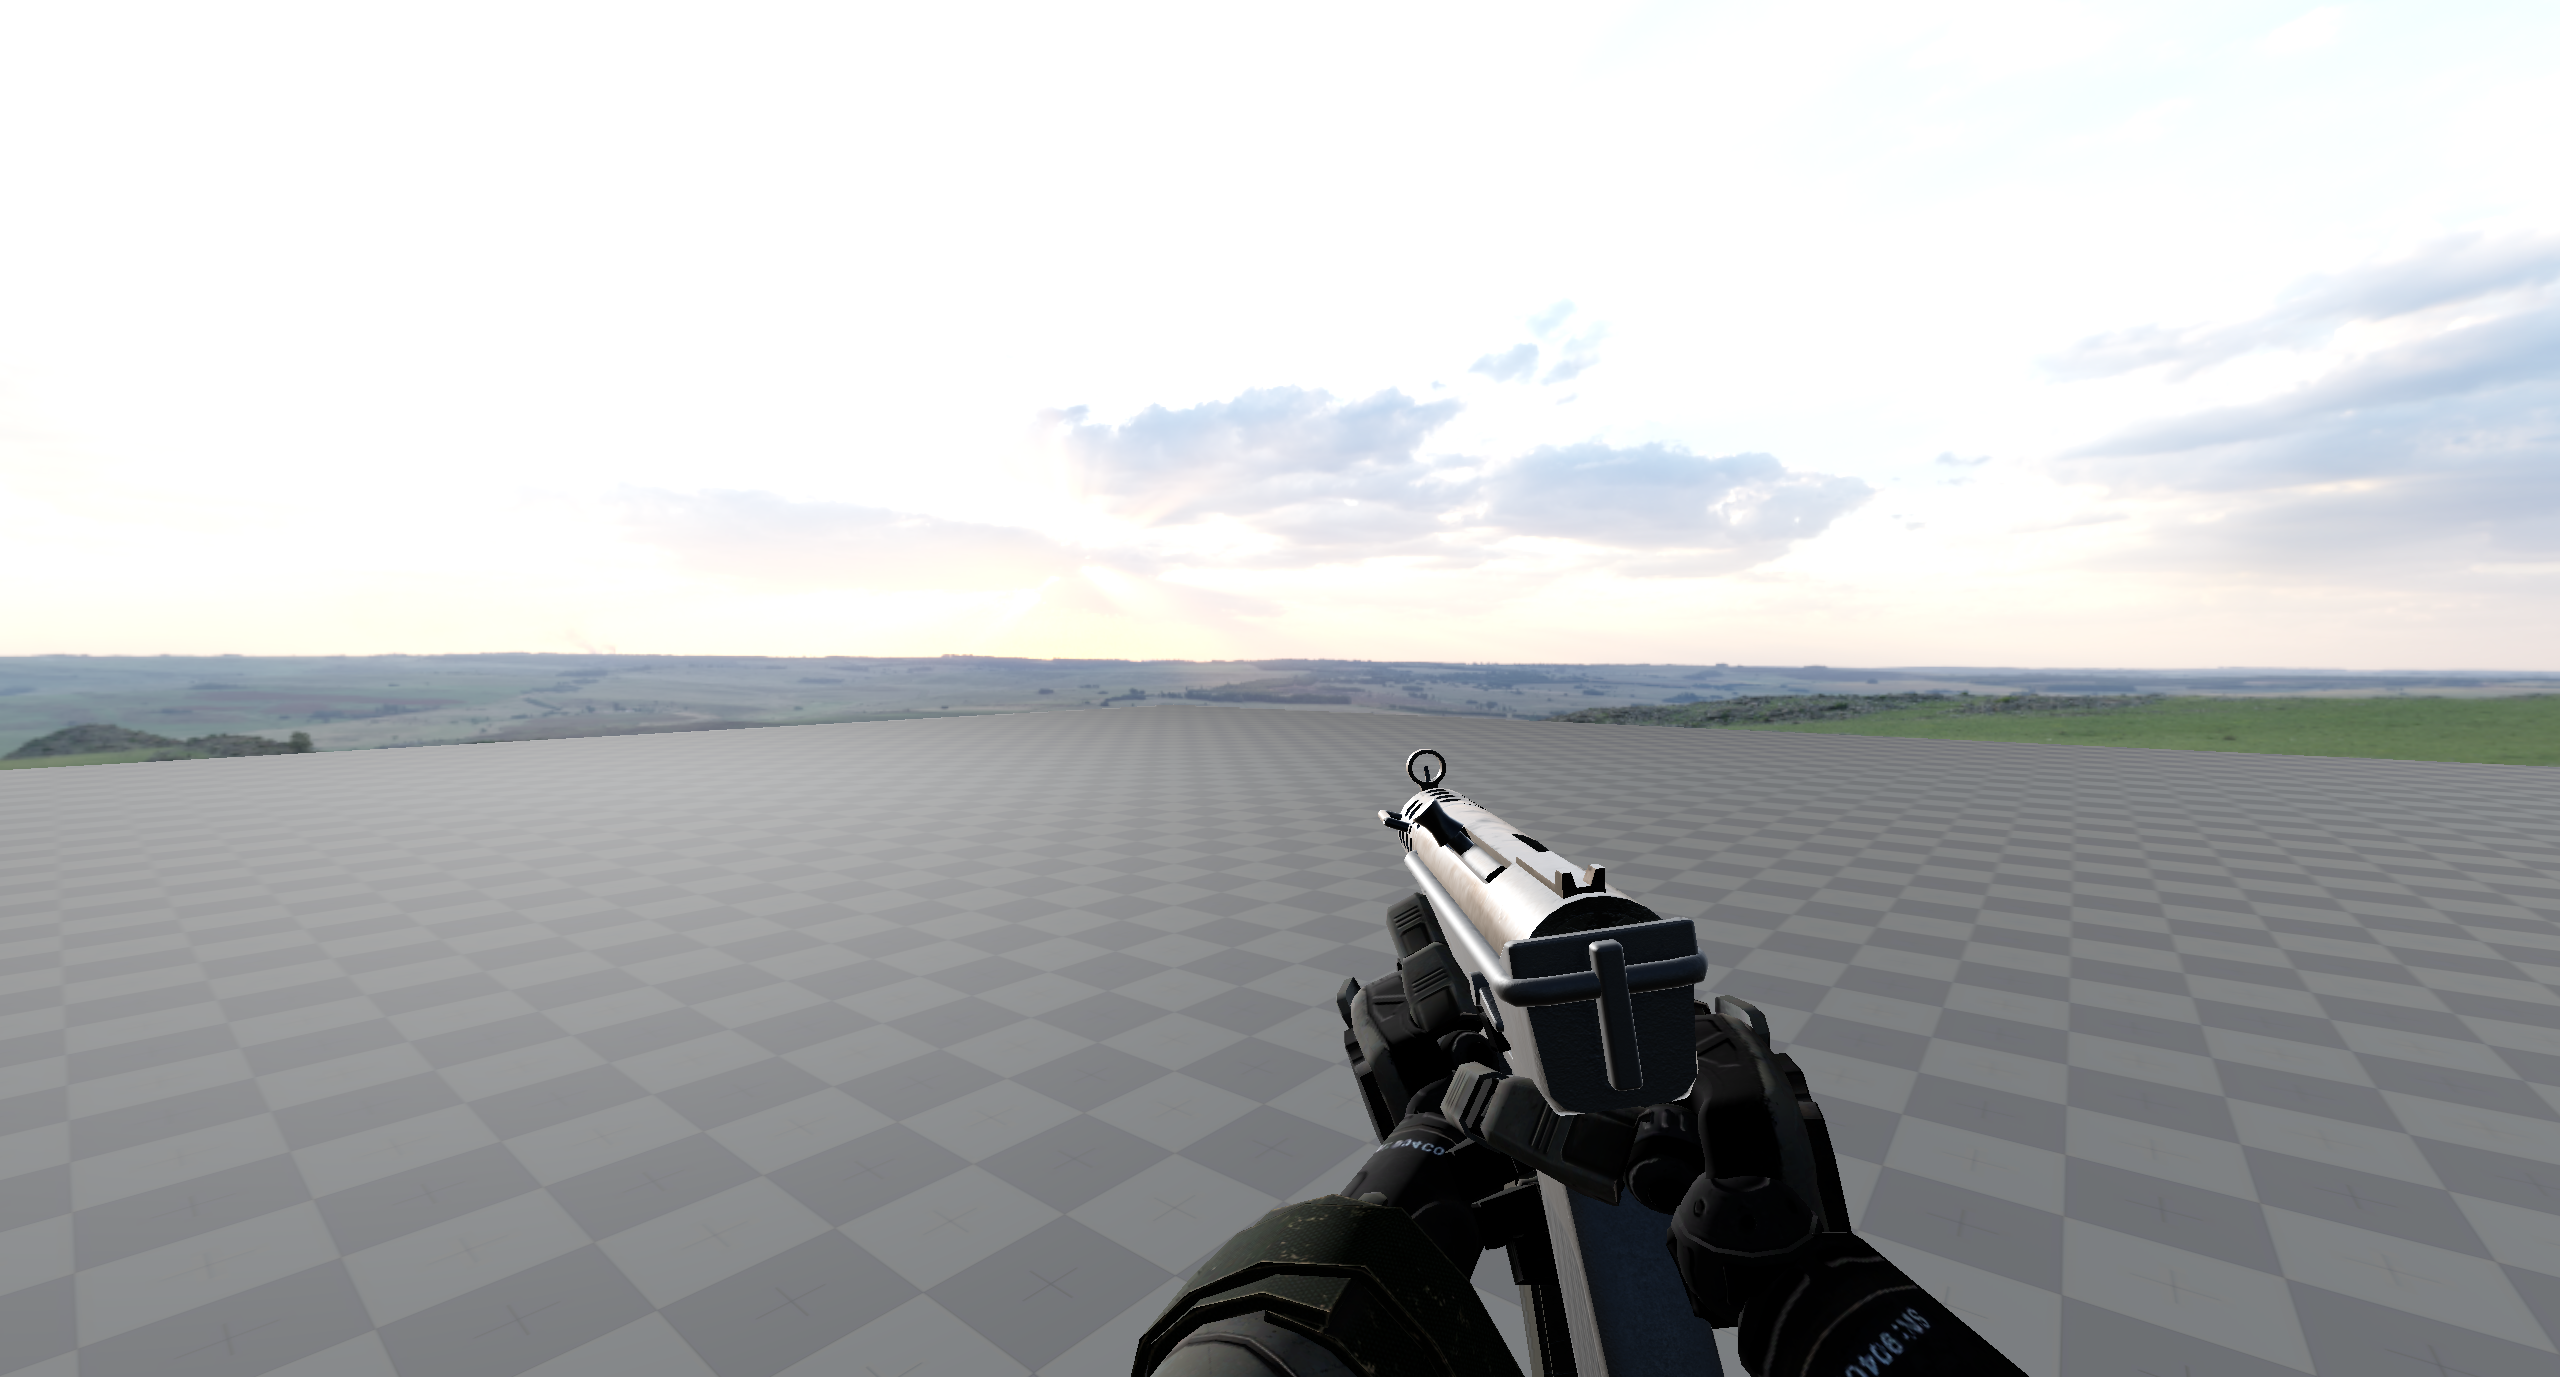
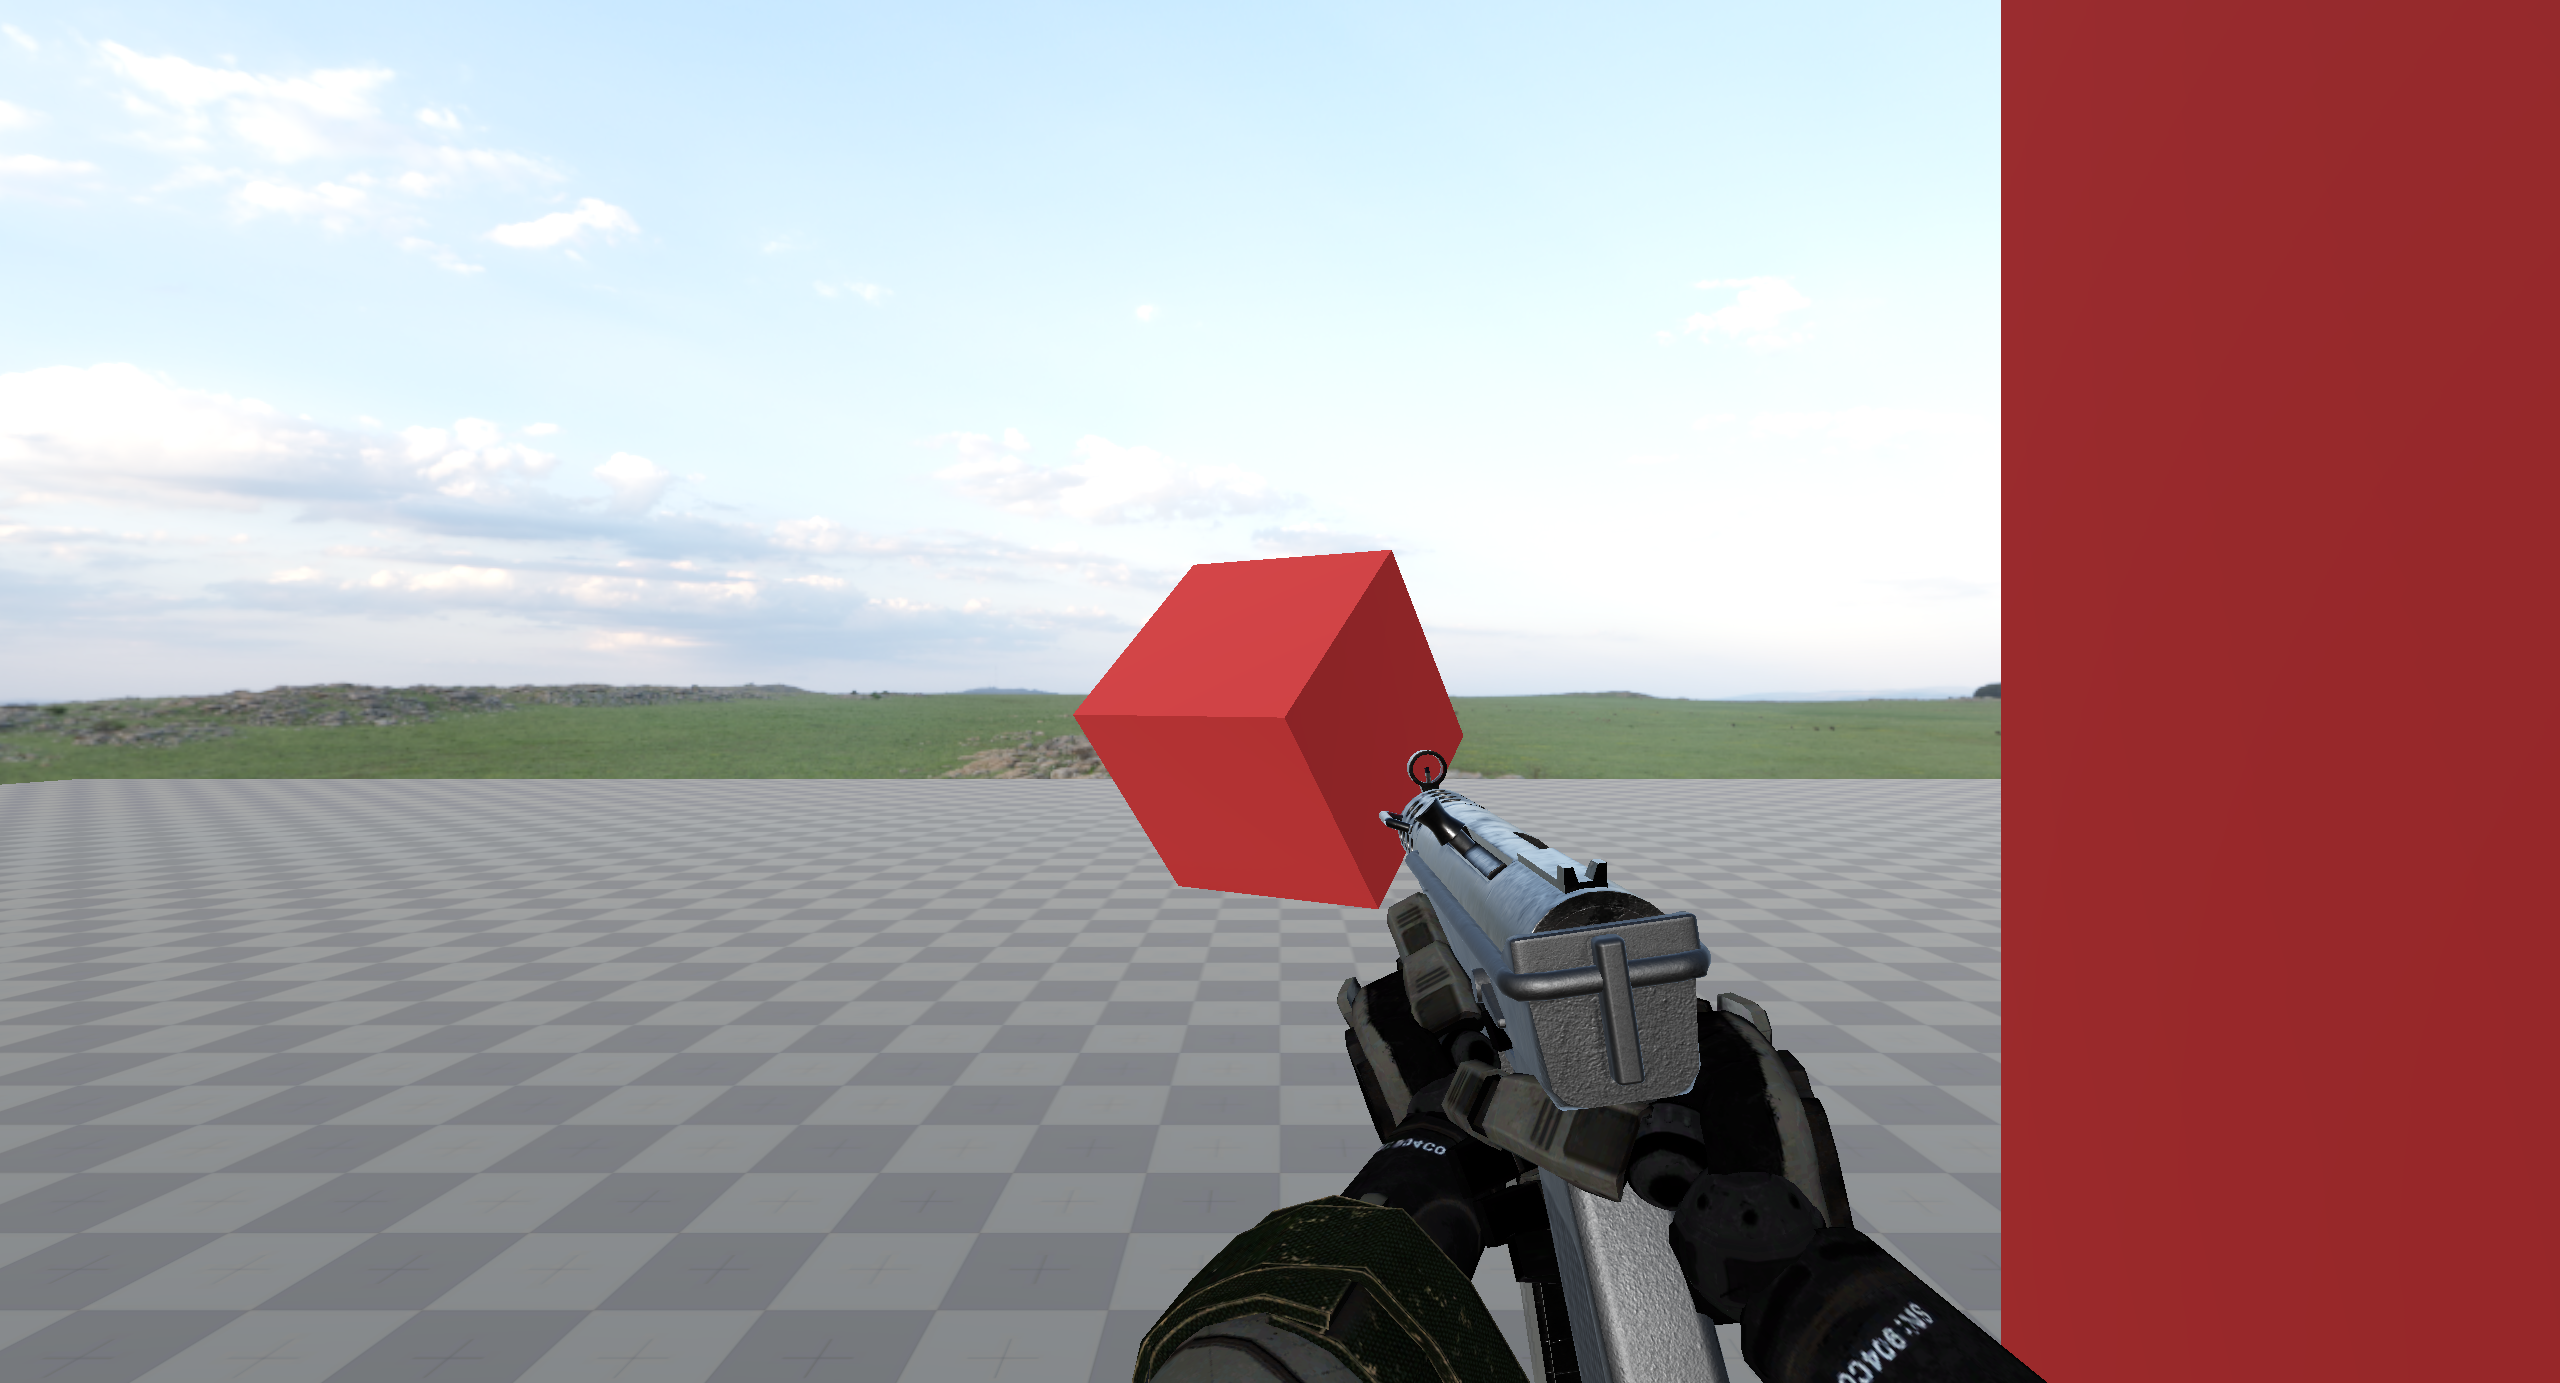
camera script and readme update

diff --git a/README.md b/README.md
@@ -31,10 +31,11 @@ See `/Assets/Viewmodel.gdshader` for the shader code
 
 The viewmodel shader modifies its projection matrix to render the viewmodel at a different fov than the main camera.
 
-![alt text](https://github.com/2nafish117/godot-viewmodel-render-test/blob/master/images/Screenshot1.png)
-
-![alt text](https://github.com/2nafish117/godot-viewmodel-render-test/blob/master/images/Screenshot2.png)
-
-![alt text](https://github.com/2nafish117/godot-viewmodel-render-test/blob/master/images/Screenshot3.png)
-
-![alt text](https://github.com/2nafish117/godot-viewmodel-render-test/blob/master/images/Screenshot3.png)
+![](https://github.com/2nafish117/godot-viewmodel-render-test/blob/master/images/Screenshot2.png)
+*camera fov 40 and viewmodel fov 60*
+![](https://github.com/2nafish117/godot-viewmodel-render-test/blob/master/images/Screenshot3.png)
+*camera fov 90 and viewmodel fov 60*
+![](https://github.com/2nafish117/godot-viewmodel-render-test/blob/master/images/Screenshot1.png)
+*money shot with dof*
+![](https://github.com/2nafish117/godot-viewmodel-render-test/blob/master/images/Screenshot4.png)
+*doesnt clip into nearby geometry*
